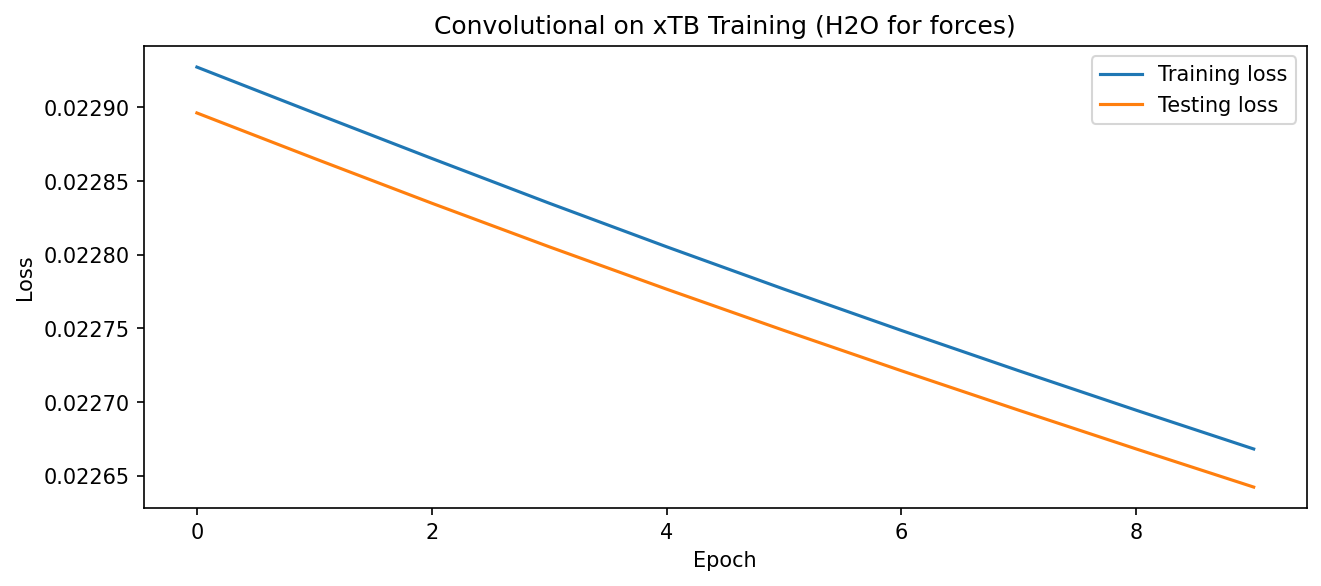
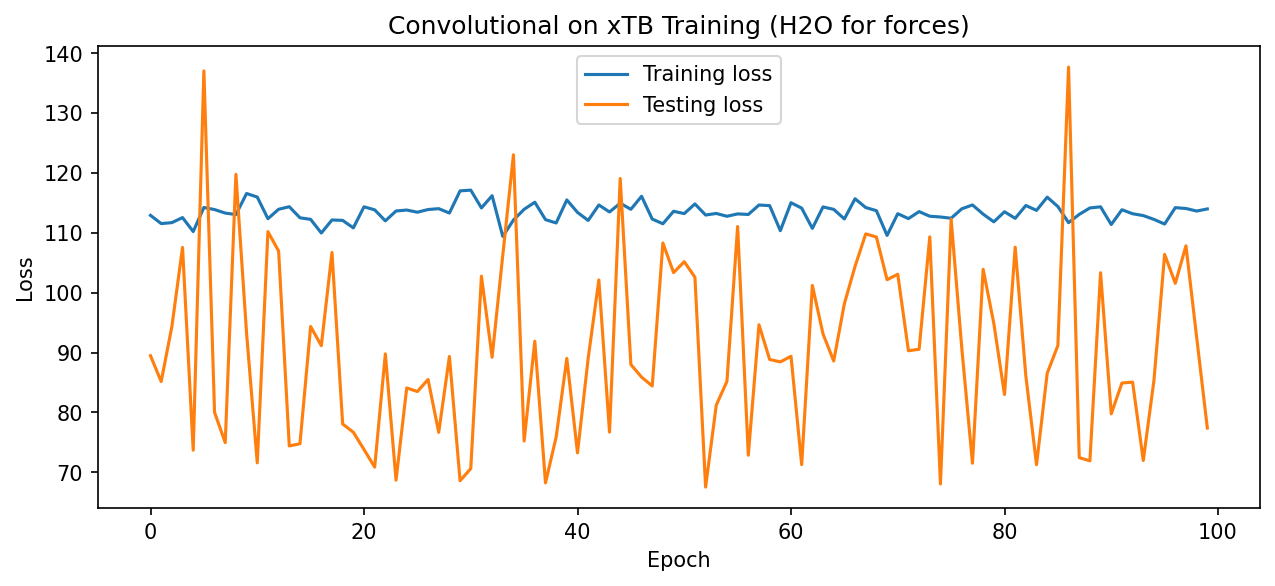
training mp+conv on xtb conforms, bad errors

diff --git a/training_scripts/master_training.py b/training_scripts/master_training.py
@@ -86,7 +86,6 @@ def get_edge_features(atoms: Atoms, elements: list, cutoff: float = 4.0):
                          for i, j in zip(i_idx, j_idx)])
     stacked_dists = np.stack([log_prods, mic_dists], axis=-1)
 
-    print(f'Shape of edge features: {stacked_dists.shape}')
     return stacked_dists
 
 
@@ -433,7 +432,7 @@ def molecules_to_tensors(molecules, device):
         
         if N >= 2:
             edge_feats = get_edge_features(atoms, els)
-            print(f'shape of edge_feats = {edge_feats.shape}')
+           
             if len(edge_feats) == 2:
                 edge_feats = edge_feats.reshape(1, 2)
             if edge_feats.ndim == 1:
@@ -441,7 +440,6 @@ def molecules_to_tensors(molecules, device):
         else:
             edge_feats = np.zeros((0, 2))
         edge_t = torch.tensor(edge_feats, dtype=torch.float32, device=device)
-        print(f'shape of edge features per frame: {edge_feats.shape}')
 
         # 3. Triplets
         wedges = wedge_product(edge_feats)
@@ -490,10 +488,8 @@ def edge_features_torch(pos_t, elements, cell_size, cutoff: float = 4.0):
                          for i, j in zip(i_idx.tolist(), j_idx.tolist())], dtype=pos_t.dtype)
     
     log_prods = log_prods[mask]
-    print(f'shape of log prds: {log_prods.shape}')
     edge_features = torch.stack((log_prods, dists), dim=1)
 
-    print(f'Shape of edge features: {edge_features.shape}')
     return edge_features
     
 def triplet_features_torch(edge_feats):
@@ -673,7 +669,7 @@ def plot_energy_losses(train_energy_losses, test_energy_losses, model_name):
     plt.ylabel('Loss')
     plt.title(f'{model_name} on xTB Training (H2O for energy)')
     plt.legend()
-    plt.savefig(f'./training_figs/{model_name}_xtb_energy.png', dpi=150, bbox_inches='tight')
+    plt.savefig(f'../training_figs/{model_name}_xtb_energy.png', dpi=150, bbox_inches='tight')
     plt.close()
 
 def plot_force_losses(train_force_losses, test_force_losses, model_name):
@@ -684,7 +680,7 @@ def plot_force_losses(train_force_losses, test_force_losses, model_name):
     plt.ylabel('Loss')
     plt.title(f'{model_name} on xTB Training (H2O for forces)')
     plt.legend()
-    plt.savefig(f'./training_figs/{model_name}_xtb_forces.png', dpi=150, bbox_inches='tight')
+    plt.savefig(f'../training_figs/{model_name}_xtb_forces.png', dpi=150, bbox_inches='tight')
     plt.close()
 
 # ------------------------------------
@@ -725,13 +721,13 @@ def plot_comparison(results, key, ylabel, filename):
     plt.ylabel(ylabel)
     plt.title(f'{ylabel} comparison across models')
     plt.legend()
-    plt.savefig(f'./training_figs/{filename}', dpi=150, bbox_inches='tight')
+    plt.savefig(f'../training_figs/{filename}', dpi=150, bbox_inches='tight')
     plt.close()
     print('Finished plotting')
 
 # MAIN EXECUTION
 def main():
-    mol_filename = 'water_test.xyz'
+    mol_filename = '../train_generation/shuffled_water_dataset.extxyz'
 
     # 1. Load or generate molecules
     if os.path.exists(mol_filename):
@@ -776,14 +772,15 @@ def main():
     print("Beginning to train models...")
 
     models = {
-    'MLP': WedgeMLP
-    #'Convolutional':ConvNet,
+    'MLP': WedgeMLP,
+    'Convolutional': ConvNet
     #Message Passing': MP_MLP
     }
+    
     results ={}
 
     for name, mlff in models.items():
-        results[name] = train_all(name, mlff, train_loader, test_loader, epochs=10)
+        results[name] = train_all(name, mlff, train_loader, test_loader, epochs=100)
 
    
         print(f'Done training {name}')
